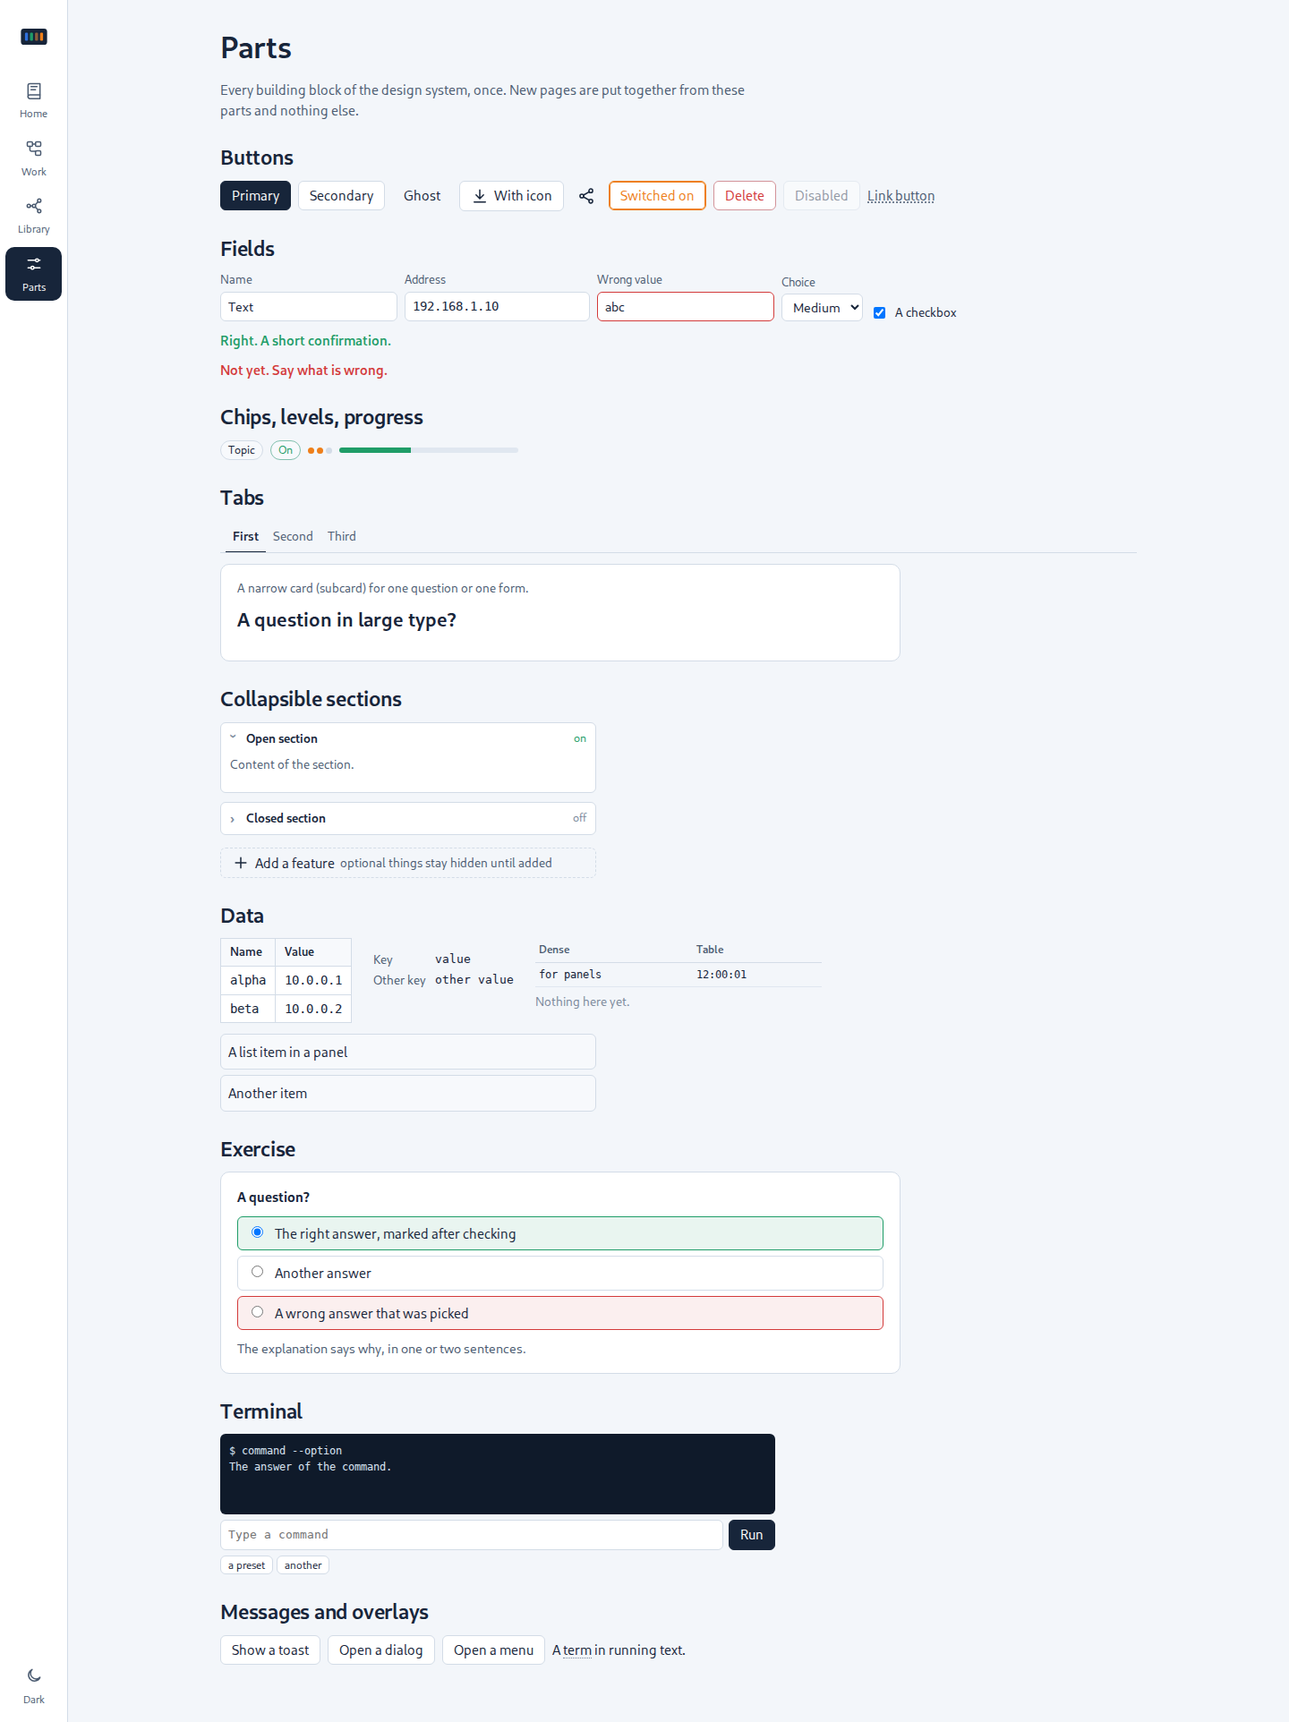
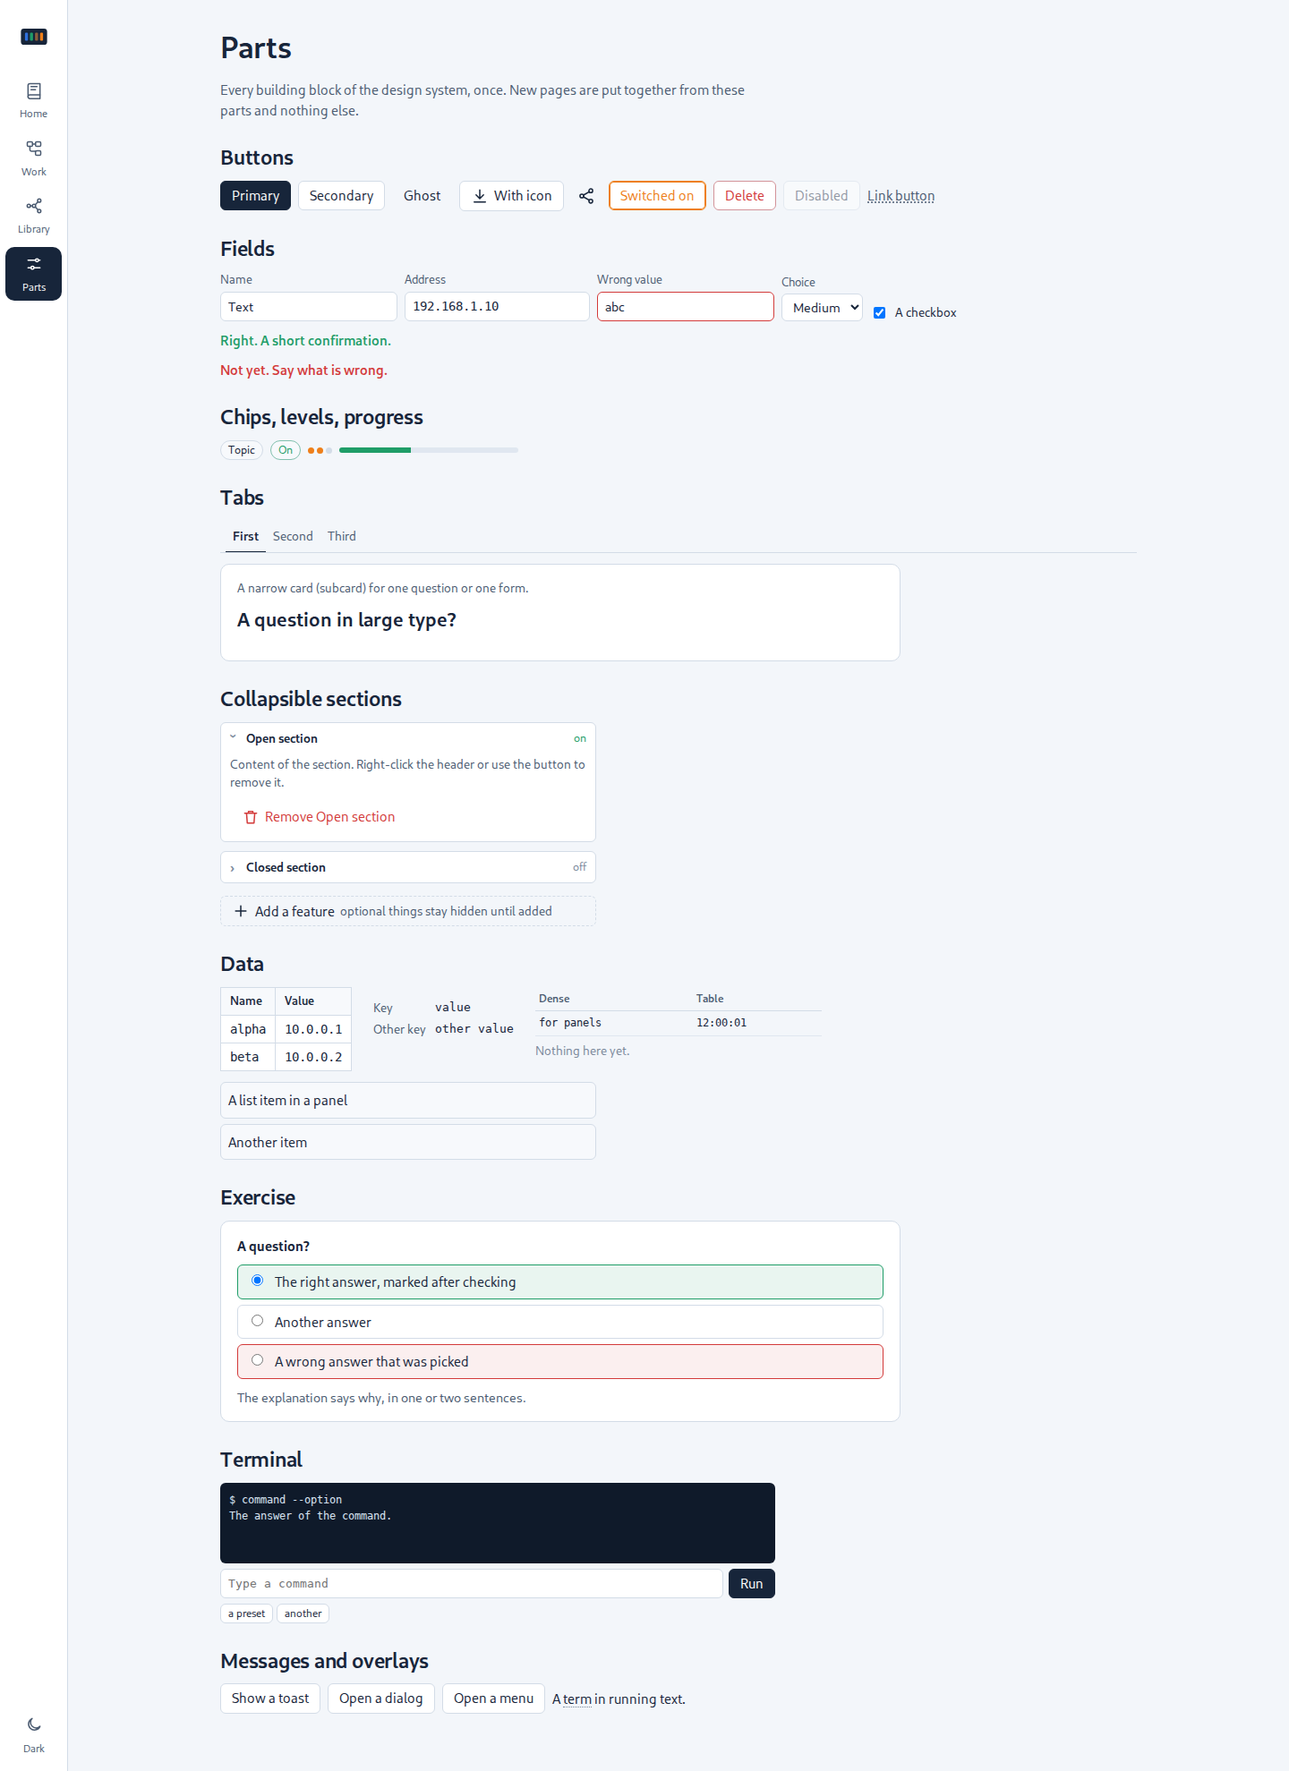
Device features can be removed again
Every optional feature of a device (BGP, OSPF, IPv6, WireGuard, NAT, rules, VRRP, BFD,
spanning tree, DNS, services, …) has a "Remove …" button at the end of its section and
the same action on a right-click of the section header. Removing resets the feature to
its defaults; Ctrl+Z brings it back, the toast says so. The design kit shows the pattern,
DESIGN.md describes it. New browser test test/featremove.test.mjs. Version 2.9.1.

Claude-Session: https://claude.ai/code/session_01LrfeH9vZBR99MrnqMbsJjr

diff --git a/src/js/panels.js b/src/js/panels.js
@@ -1,10 +1,10 @@
 // Side panel: configuration, tables and console of a device
-import { h } from './ui.js';
+import { h, toast, contextMenu } from './ui.js';
 import { I } from './icons.js';
 import { isIp, parseCidr, isAnyIp, isIp6, parseCidr6, norm6 } from './net.js';
 import { staticAddrs } from './ipv6.js';
 import { wgPubKey, wgGenKey, isWgKey, shortKey } from './vpn.js';
-import { PORTS, STP_TEXT } from './engine.js';
+import { PORTS, STP_TEXT, normalizeDevice } from './engine.js';
 import { runCommand } from './cli.js';
 
 function ipInput(value, onChange, placeholder = '', any = false) {
@@ -35,10 +35,15 @@ function select(options, value, onChange) {
 // Collapsible section for features that are not always needed. It opens by itself when the
 // feature is in use and remembers being opened or closed while the device stays selected.
 const sectionOpen = new Map();
-function section(dev, title, status, inUse, content) {
+// onRemove (optional): the section can be removed with a button at its end or by right-clicking its header.
+function section(dev, title, status, inUse, content, onRemove) {
   const key = dev.id + '|' + title;
-  const d = h('details', { class: 'sect', open: (sectionOpen.get(key) ?? inUse) ? true : null },
-    h('summary', {}, h('span', {}, title), h('span', { class: 'sect-status' + (inUse ? ' on' : '') }, status)), h('div', { class: 'sect-body' }, content));
+  const label = `Remove ${title}`;
+  const summary = h('summary', {}, h('span', {}, title), h('span', { class: 'sect-status' + (inUse ? ' on' : '') }, status));
+  const d = h('details', { class: 'sect', open: (sectionOpen.get(key) ?? inUse) ? true : null }, summary,
+    h('div', { class: 'sect-body' }, content,
+      onRemove ? h('div', { class: 'row', style: { marginTop: '10px' } }, h('button', { class: 'btn ghost danger', html: I.trash + label, onclick: onRemove })) : null));
+  if (onRemove) summary.addEventListener('contextmenu', e => contextMenu(e, [{ label, icon: I.trash, danger: true, onClick: onRemove }], title));
   d.addEventListener('toggle', () => sectionOpen.set(key, d.open));
   return d;
 }
@@ -46,12 +51,18 @@ function section(dev, title, status, inUse, content) {
 // Optional features: only the ones in use (or just added) are shown, the rest waits in a
 // small menu with one line of explanation each. This keeps a new device calm to look at.
 const featShown = new Set();
+// A feature in use is removed with f.remove(): its settings go back to the defaults (Ctrl+Z undoes it).
 function features(dev, list, rerender, locked) {
   const wrap = h('div', { class: 'features' });
   const key = f => dev.id + '|' + f.id;
   const active = list.filter(f => f.inUse || featShown.has(key(f)));
   const rest = list.filter(f => !active.includes(f));
-  for (const f of active) wrap.append(section(dev, f.title, f.status || '', f.inUse, f.render()));
+  const remove = f => () => {
+    featShown.delete(key(f)); sectionOpen.delete(dev.id + '|' + f.title);
+    if (f.inUse) { f.remove?.(); toast(`${f.title} removed from ${dev.name}. Ctrl+Z brings it back.`); }
+    rerender?.();
+  };
+  for (const f of active) wrap.append(section(dev, f.title, f.status || '', f.inUse, f.render(), locked || (f.inUse && !f.remove) ? null : remove(f)));
   if (rest.length && !locked) {
     const menu = h('div', { class: 'featmenu hidden', role: 'menu' }, rest.map(f => h('button', { class: 'featitem', role: 'menuitem', onclick: () => {
       featShown.add(key(f)); sectionOpen.set(dev.id + '|' + f.title, true); f.onAdd?.(); rerender?.();
@@ -70,6 +81,11 @@ export function configPanel(dev, ctx) {
   const c = dev.cfg;
   const box = h('div');
   const upd = (fn, msg) => { fn(); changed(msg); };
+  // Removing a feature: drop its settings and let normalizeDevice put the defaults back
+  const reset = (what, fn) => () => upd(() => { fn(); normalizeDevice(c); }, `${dev.name}: ${what} removed`);
+  const dnsSvcOff = () => { c.services = c.services.filter(x => !(x.proto === 'udp' && Number(x.port) === 53)); };
+  const no6 = () => { for (const i of Object.values(c.ifaces)) delete i.ip6; };
+  const noWg = () => { delete c.wg; delete c.ifaces.wg0; };
   if (locked) box.append(h('div', { class: 'hint' }, 'The configuration is locked in this step. Observe the network and use the console and tables.'));
 
   if (c.type === 'pc' || c.type === 'server') {
@@ -99,25 +115,32 @@ export function configPanel(dev, ctx) {
     const hasDnsSvc = () => c.services.some(x => x.proto === 'udp' && Number(x.port) === 53);
     box.append(features(dev, [
       { id: 'services', title: 'Services', desc: 'Programs that listen on a port, e.g. a web server on TCP 80',
-        inUse: c.services.length > 0, status: c.services.map(x => `${x.proto.toUpperCase()} ${x.port}`).join(', '), render: () => servicesEditor(dev, upd) },
+        inUse: c.services.length > 0, status: c.services.map(x => `${x.proto.toUpperCase()} ${x.port}`).join(', '), render: () => servicesEditor(dev, upd),
+        remove: reset('services', () => { c.services = []; }) },
       { id: 'dns', title: 'DNS records', desc: 'Answer name queries for other devices (DNS server on UDP 53)',
         inUse: c.dns.length > 0 || !!c.dnsZone, status: plural(c.dns.length, 'record') + (c.dnsZone ? `, zone ${c.dnsZone}` : ''), render: () => dnsEditor(dev, upd),
+        remove: reset('DNS records', () => { c.dns = []; c.dnsZone = ''; if (!c.recursion?.enabled) dnsSvcOff(); }),
         onAdd: () => { if (!hasDnsSvc()) upd(() => c.services.push({ proto: 'udp', port: 53, name: 'dns' }), `${dev.name}: DNS service`); } },
       { id: 'resolver', title: 'Recursive resolver', desc: 'Find any name for others: ask root, TLD and authoritative servers and cache the answers',
         inUse: !!c.recursion?.enabled, status: c.recursion?.enabled ? `on, ${plural(dev.l3.resolverSvc?.dump().length || 0, 'cached record')}` : 'off', render: () => resolverEditor(dev, upd, rerender),
+        remove: reset('recursive resolver', () => { delete c.recursion; if (!c.dns.length && !c.dnsZone) dnsSvcOff(); }),
         onAdd: () => upd(() => { c.recursion.enabled = true; if (!hasDnsSvc()) c.services.push({ proto: 'udp', port: 53, name: 'dns' }); }, `${dev.name}: recursive resolver`) },
       ...(c.type === 'server' ? [{ id: 'dhcpd', title: 'DHCP server', desc: 'Hand out addresses to other devices',
-        inUse: c.dhcpServer.enabled, status: c.dhcpServer.enabled ? `on, ${plural(dev.l3.dhcpLeases.size, 'lease')}` : 'off', render: () => dhcpServerEditor(dev, upd) }] : []),
+        inUse: c.dhcpServer.enabled, status: c.dhcpServer.enabled ? `on, ${plural(dev.l3.dhcpLeases.size, 'lease')}` : 'off', render: () => dhcpServerEditor(dev, upd),
+        remove: reset('DHCP server', () => { delete c.dhcpServer; }) }] : []),
       { id: 'ipv6', title: 'IPv6', desc: 'A second address family: link-local, addresses from router advertisements (SLAAC), static addresses',
         inUse: !!c.ipv6?.enabled, status: c.ipv6?.enabled ? plural(dev.l3.v6.allAddrs().filter(a => a.scope === 'global').length, 'global address') : 'off', render: () => ipv6HostEditor(dev, upd, rerender),
+        remove: reset('IPv6', () => { delete c.ipv6; no6(); }),
         onAdd: () => upd(() => { c.ipv6.enabled = true; }, `${dev.name}: IPv6 on`) },
       { id: 'wg', title: 'WireGuard VPN', desc: 'An encrypted tunnel wg0 to other sites or devices, with keys and allowed IPs',
         inUse: !!c.wg?.enabled, status: c.wg?.enabled ? `wg0 ${c.ifaces.wg0?.ip || ''}, ${plural((c.wg.peers || []).length, 'peer')}` : 'off', render: () => wgEditor(dev, upd, rerender),
+        remove: reset('WireGuard', noWg),
         onAdd: () => upd(() => { c.wg.enabled = true; c.wg.privateKey ||= wgGenKey(dev.id + Date.now()); c.ifaces.wg0 ??= { ip: '10.99.0.1', prefix: 24 }; }, `${dev.name}: WireGuard on`) },
       { id: 'vlan', title: 'VLAN tag', desc: 'Send every frame with an 802.1Q tag, like eth1.10 on Linux',
         inUse: !!i.vlan, status: i.vlan ? `VLAN ${i.vlan}` : '', render: () => h('div', {},
           h('div', { class: 'cfg-grid', style: { gridTemplateColumns: '90px 1fr' } }, h('span', {}, 'VLAN tag'), numInput(i.vlan, 1, 4094, v => upd(() => i.vlan = v, `${dev.name}: VLAN tag ${v ?? 'off'}`), 'no tag')),
-          h('p', { class: 'small muted', style: { marginTop: '6px' } }, 'Without a tag the host fits on an access port. With a tag, the switch port must be a trunk that allows this VLAN.')) }
+          h('p', { class: 'small muted', style: { marginTop: '6px' } }, 'Without a tag the host fits on an access port. With a tag, the switch port must be a trunk that allows this VLAN.')),
+        remove: reset('VLAN tag', () => { i.vlan = null; }) }
     ], rerender, locked));
   }
 
@@ -146,30 +169,42 @@ export function configPanel(dev, ctx) {
       const relay = Object.values(c.ifaces).some(i => isIp(i.helper));
       const fullNbrs = (dev.ospf?.neighborTable() || []).filter(n => n.state === 'Full').length;
       box.append(features(dev, [
-        { id: 'subif', title: 'Subinterfaces', desc: 'One cable, several VLANs: router on a stick', inUse: subs.length > 0, status: subs.join(', '), render: () => subifEditor(dev, upd, sim, rerender) },
+        { id: 'subif', title: 'Subinterfaces', desc: 'One cable, several VLANs: router on a stick', inUse: subs.length > 0, status: subs.join(', '), render: () => subifEditor(dev, upd, sim, rerender),
+          remove: reset('subinterfaces', () => { for (const n of subs) delete c.ifaces[n]; }) },
         { id: 'ipv6', title: 'IPv6', desc: 'IPv6 addresses per interface, router advertisements for SLAAC, a DNS server for the clients (RDNSS)',
           inUse: !!c.ipv6?.enabled, status: c.ipv6?.enabled ? `on${(c.ipv6.ra || []).length ? ', RA on ' + c.ipv6.ra.join(', ') : ''}` : 'off', render: () => ipv6RouterEditor(dev, upd, sim, rerender),
+          remove: reset('IPv6', () => { delete c.ipv6; no6(); }),
           onAdd: () => upd(() => { c.ipv6.enabled = true; }, `${dev.name}: IPv6 on`) },
         { id: 'wg', title: 'WireGuard VPN', desc: 'An encrypted tunnel wg0 to other sites or devices, with keys and allowed IPs',
           inUse: !!c.wg?.enabled, status: c.wg?.enabled ? `wg0 ${c.ifaces.wg0?.ip || ''}, ${plural((c.wg.peers || []).length, 'peer')}` : 'off', render: () => wgEditor(dev, upd, rerender),
+          remove: reset('WireGuard', noWg),
           onAdd: () => upd(() => { c.wg.enabled = true; c.wg.privateKey ||= wgGenKey(dev.id + Date.now()); c.ifaces.wg0 ??= { ip: '10.99.0.1', prefix: 24 }; }, `${dev.name}: WireGuard on`) },
         { id: 'bgp', title: 'BGP', desc: 'Exchange routes with other autonomous systems (eBGP) and inside your own (iBGP)',
           inUse: !!c.bgp?.enabled, status: c.bgp?.enabled ? `AS ${c.bgp.asn || '?'}, ${(dev.bgp?.summary() || []).filter(x => x.state === 'Established').length}/${(c.bgp.neighbors || []).length} up` : 'off', render: () => bgpEditor(dev, upd, rerender),
+          remove: reset('BGP', () => { delete c.bgp; }),
           onAdd: () => upd(() => { c.bgp.enabled = true; c.bgp.asn ||= 65001; }, `${dev.name}: BGP on`) },
-        { id: 'rules', title: 'Rules', desc: 'Allow, drop or reject forwarded packets (firewall)', inUse: c.acl.length > 0, status: plural(c.acl.length, 'rule'), render: () => aclEditor(dev, upd) },
-        { id: 'nat', title: 'NAT', desc: 'Inside hosts share the outside address, port forwards', inUse: !!c.nat.outside, status: c.nat.outside ? `outside ${c.nat.outside}` : 'off', render: () => natEditor(dev, upd, rerender) },
+        { id: 'rules', title: 'Rules', desc: 'Allow, drop or reject forwarded packets (firewall)', inUse: c.acl.length > 0, status: plural(c.acl.length, 'rule'), render: () => aclEditor(dev, upd),
+          remove: reset('rules', () => { c.acl = []; }) },
+        { id: 'nat', title: 'NAT', desc: 'Inside hosts share the outside address, port forwards', inUse: !!c.nat.outside, status: c.nat.outside ? `outside ${c.nat.outside}` : 'off', render: () => natEditor(dev, upd, rerender),
+          remove: reset('NAT', () => { delete c.nat; }) },
         { id: 'dhcp', title: 'DHCP', desc: 'Hand out addresses, or relay requests to a DHCP server', inUse: c.dhcpServer.enabled || relay,
-          status: c.dhcpServer.enabled ? 'server on' : relay ? 'relay' : 'off', render: () => h('div', {}, relayEditor(dev, upd), dhcpServerEditor(dev, upd)) },
+          status: c.dhcpServer.enabled ? 'server on' : relay ? 'relay' : 'off', render: () => h('div', {}, relayEditor(dev, upd), dhcpServerEditor(dev, upd)),
+          remove: reset('DHCP', () => { delete c.dhcpServer; for (const i of Object.values(c.ifaces)) delete i.helper; }) },
         { id: 'vrrp', title: 'VRRP', desc: 'Share a gateway address with a second router', inUse: c.vrrp.length > 0,
-          status: (dev.vrrp?.table() || []).map(g => `${g.vrid}: ${g.state}`).join(', ') || plural(c.vrrp.length, 'group'), render: () => vrrpEditor(dev, upd, rerender) },
+          status: (dev.vrrp?.table() || []).map(g => `${g.vrid}: ${g.state}`).join(', ') || plural(c.vrrp.length, 'group'), render: () => vrrpEditor(dev, upd, rerender),
+          remove: reset('VRRP', () => { c.vrrp = []; }) },
         { id: 'ospf', title: 'OSPF', desc: 'Learn routes automatically from neighboring routers', inUse: c.ospf.enabled,
-          status: c.ospf.enabled ? `on, ${plural(fullNbrs, 'neighbor')}` : 'off', render: () => ospfEditor(dev, upd, rerender) },
+          status: c.ospf.enabled ? `on, ${plural(fullNbrs, 'neighbor')}` : 'off', render: () => ospfEditor(dev, upd, rerender),
+          remove: reset('OSPF', () => { delete c.ospf; }) },
         { id: 'ecmp', title: 'Load balancing (ECMP)', desc: 'Use several equally good routes at the same time', inUse: Number(c.maxPaths) !== 4 || c.ecmpHash === 'l4',
-          status: Number(c.maxPaths) === 1 ? 'off (1 path)' : `up to ${c.maxPaths} paths, ${c.ecmpHash === 'l4' ? 'L4' : 'L3'} hash`, render: () => ecmpEditor(dev, upd) },
+          status: Number(c.maxPaths) === 1 ? 'off (1 path)' : `up to ${c.maxPaths} paths, ${c.ecmpHash === 'l4' ? 'L4' : 'L3'} hash`, render: () => ecmpEditor(dev, upd),
+          remove: reset('load balancing', () => { delete c.maxPaths; delete c.ecmpHash; }) },
         { id: 'bfd', title: 'BFD', desc: 'Notice a dead neighbor in under a second', inUse: !!c.bfd.enabled,
-          status: c.bfd.enabled ? (dev.bfd?.table() || []).map(x => `${x.peer} ${x.state}`).join(', ') || 'on, no peers' : 'off', render: () => bfdEditor(dev, upd, rerender) },
+          status: c.bfd.enabled ? (dev.bfd?.table() || []).map(x => `${x.peer} ${x.state}`).join(', ') || 'on, no peers' : 'off', render: () => bfdEditor(dev, upd, rerender),
+          remove: reset('BFD', () => { delete c.bfd; }) },
         { id: 'adv', title: 'Advanced', desc: 'IP forwarding on or off, MSS clamping', inUse: c.forwarding === false || !!c.mssClamp,
-          status: c.forwarding === false || c.mssClamp ? 'changed' : '', render: () => advancedEditor(dev, upd) }
+          status: c.forwarding === false || c.mssClamp ? 'changed' : '', render: () => advancedEditor(dev, upd),
+          remove: reset('advanced settings', () => { delete c.forwarding; delete c.mssClamp; }) }
       ], rerender, locked));
     }
   }
@@ -205,11 +240,13 @@ export function configPanel(dev, ctx) {
     const st = c.stp;
     box.append(features(dev, [
       ...(c.type === 'switch' ? [{ id: 'stp', title: 'Spanning tree', desc: 'Block redundant paths so no loop forms (STP or RSTP)', inUse: !!st.enabled,
-        status: st.enabled ? `${st.mode === 'rstp' ? 'RSTP' : 'STP'}${dev.bridge.stpTable()?.isRoot ? ', root' : ''}` : 'off', render: () => stpEditor(dev, upd, sim, shown, rerender) }] : []),
+        status: st.enabled ? `${st.mode === 'rstp' ? 'RSTP' : 'STP'}${dev.bridge.stpTable()?.isRoot ? ', root' : ''}` : 'off', render: () => stpEditor(dev, upd, sim, shown, rerender),
+        remove: reset('spanning tree', () => { delete c.stp; }) }] : []),
       { id: 'mac', title: 'MAC table', desc: 'How long learned addresses are kept, 0 turns the switch into a hub', inUse: Number(c.ageing) !== 300,
         status: `aging ${c.ageing} s`, render: () => h('div', { class: 'cfg-grid', style: { gridTemplateColumns: '1fr 90px' } },
           h('span', { class: 'small' }, 'Aging time (s), 0 = learns nothing'),
-          numInput(c.ageing, 0, 3600, v => upd(() => c.ageing = v ?? 300, `${dev.name}: aging ${v} s`))) }
+          numInput(c.ageing, 0, 3600, v => upd(() => c.ageing = v ?? 300, `${dev.name}: aging ${v} s`))),
+        remove: reset('MAC table settings', () => { delete c.ageing; }) }
     ], rerender, locked));
   }
 
@@ -217,6 +254,7 @@ export function configPanel(dev, ctx) {
     box.append(vxlanEditor(dev, upd, sim));
     box.append(features(dev, [{ id: 'bgp', title: 'BGP (EVPN)', desc: 'Find the other VTEPs and all MAC addresses over BGP instead of static flood lists',
       inUse: !!c.bgp?.enabled, status: c.bgp?.enabled ? `AS ${c.bgp.asn || '?'}, ${(dev.bgp?.summary() || []).filter(x => x.state === 'Established').length}/${(c.bgp.neighbors || []).length} up` : 'off', render: () => bgpEditor(dev, upd, rerender),
+      remove: reset('BGP', () => { delete c.bgp; }),
       onAdd: () => upd(() => { c.bgp.enabled = true; c.bgp.asn ||= 65000; }, `${dev.name}: BGP on`) }], rerender, locked));
   }
   if (locked) box.querySelectorAll('input,select,button').forEach(e => e.disabled = true);

diff --git a/docs/design/kit/js/app.js b/docs/design/kit/js/app.js
@@ -187,7 +187,9 @@ function viewComponents() {
       h('div', { class: 'progressbar', style: { width: '200px' } }, h('i', { style: { width: '40%' } })))),
     ...sec('Tabs', tabs, h('div', { class: 'subcard', style: { marginTop: '12px' } }, h('div', { class: 'small muted' }, 'A narrow card (subcard) for one question or one form.'), h('div', { style: { fontSize: '1.35rem', fontWeight: 650, margin: '8px 0 14px' } }, 'A question in large type?'))),
     ...sec('Collapsible sections', h('div', { style: { maxWidth: '420px' } },
-      h('details', { class: 'sect', open: true }, h('summary', {}, 'Open section', h('span', { class: 'sect-status on' }, 'on')), h('div', { class: 'sect-body' }, h('p', { class: 'small muted' }, 'Content of the section.'))),
+      h('details', { class: 'sect', open: true }, h('summary', { oncontextmenu: e => contextMenu(e, [{ label: 'Remove Open section', icon: I.trash, danger: true, onClick: () => toast('Open section removed. Ctrl+Z brings it back.') }], 'Open section') }, 'Open section', h('span', { class: 'sect-status on' }, 'on')),
+        h('div', { class: 'sect-body' }, h('p', { class: 'small muted' }, 'Content of the section. Right-click the header or use the button to remove it.'),
+          h('div', { class: 'row', style: { marginTop: '10px' } }, h('button', { class: 'btn ghost danger', html: I.trash + 'Remove Open section', onclick: () => toast('Open section removed. Ctrl+Z brings it back.') })))),
       h('details', { class: 'sect' }, h('summary', {}, 'Closed section', h('span', { class: 'sect-status' }, 'off')), h('div', { class: 'sect-body' }, 'Hidden until opened.')),
       h('div', { class: 'features' }, h('button', { class: 'btn addfeat', html: I.plus + 'Add a feature <span class="small muted">optional things stay hidden until added</span>' })))),
     ...sec('Data', h('div', { class: 'row', style: { alignItems: 'start', gap: '24px' } },

diff --git a/README.md b/README.md
@@ -152,7 +152,7 @@ node test/design.test.mjs               # the design kit is an exact copy, DESIG
 bash build.sh                           # regenerate packetpilot-install.sh
 ```
 
-`test/ui.test.mjs`, `test/features.test.mjs`, `test/lesson.test.mjs`, `test/persist.test.mjs` and `test/practice.test.mjs` require Playwright with Chromium and the local server from above.
+`test/ui.test.mjs`, `test/features.test.mjs`, `test/lesson.test.mjs`, `test/persist.test.mjs`, `test/practice.test.mjs` and `test/featremove.test.mjs` require Playwright with Chromium and the local server from above.
 
 ```
 src/
